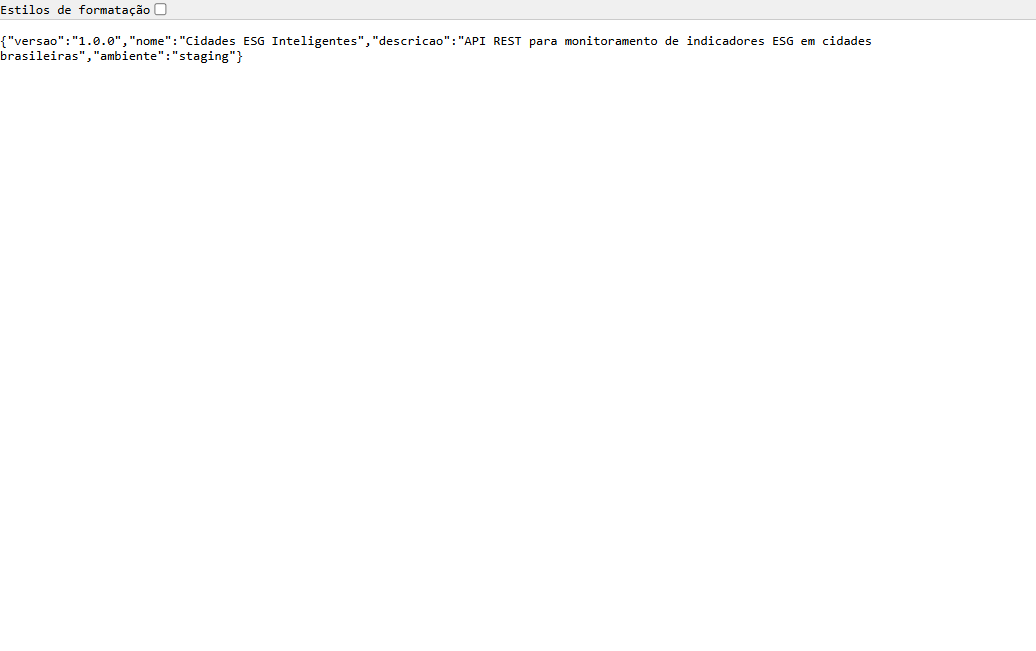
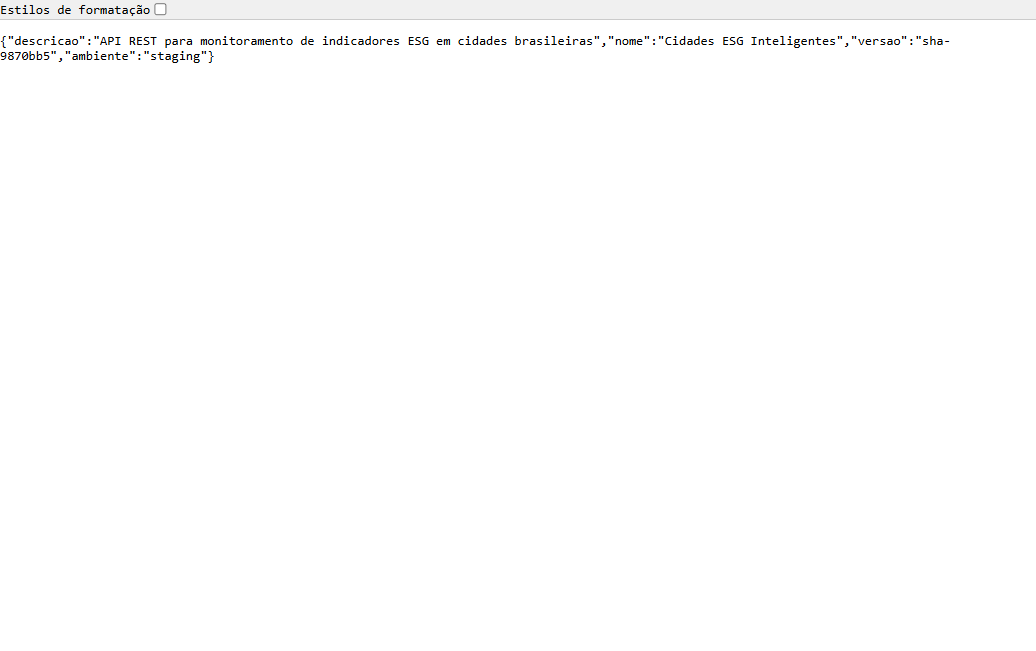
docs: README e documentacao tecnica atualizados com URLs Azure e pipeline verde

Changed region(s): [[0.4015, 0.0307, 0.8649, 0.0922], [0.0, 0.0307, 0.3707, 0.0922]]

diff --git a/DOCUMENTACAO_TECNICA.html b/DOCUMENTACAO_TECNICA.html
@@ -129,8 +129,16 @@
 O <strong>Cidades ESG Inteligentes</strong> é uma API REST desenvolvida em <strong>Java 21 + Spring Boot 3.2.5</strong>
 para monitoramento de indicadores ESG (Environmental, Social & Governance) em cidades brasileiras.
 Esta entrega foca em integrar práticas completas de DevOps: containerização com Docker multi-stage,
-orquestração via Docker Compose com overrides por ambiente (dev/staging/prod) e pipeline CI/CD funcional no GitHub Actions.
+orquestração via Docker Compose com overrides por ambiente (dev/staging/prod), pipeline CI/CD funcional no GitHub Actions
+e <strong>deploy real em VM Azure</strong> nos ambientes de staging e produção.
 </p>
+
+<div class="success">
+<strong>Infraestrutura pública:</strong><br>
+• Repositório: <code class="inline">github.com/BrunoTizer/cidades-esg-inteligentes</code><br>
+• Staging: <code class="inline">http://51.120.75.55:8081/</code><br>
+• Produção: <code class="inline">http://51.120.75.55:8082/</code>
+</div>
 
 <h3>Arquitetura de alto nível</h3>
 <div class="ascii-diagram">
@@ -166,11 +174,26 @@ define cinco jobs encadeados, executados em agentes <code class="inline">ubuntu-
 <h2>2.1 Etapas do pipeline</h2>
 <table>
   <tr><th>#</th><th>Job</th><th>Responsabilidade</th><th>Dispara em</th></tr>
-  <tr><td>1</td><td><strong>build-and-test</strong></td><td><code class="inline">mvn verify -B</code> — compila e executa os 11 testes JUnit. Publica relatório Surefire e cobertura no Codecov.</td><td>Todos os pushes e PRs</td></tr>
-  <tr><td>2</td><td><strong>docker-build</strong></td><td>Build multi-stage da imagem, push para <code class="inline">ghcr.io</code> com tags <code class="inline">sha</code>, branch e <code class="inline">latest</code>. Usa cache de layers GHA.</td><td>Depois do job 1</td></tr>
-  <tr><td>3</td><td><strong>deploy-staging</strong></td><td>SSH no servidor de staging, <code class="inline">docker compose pull</code> + <code class="inline">up -d</code> com override <code class="inline">docker-compose.staging.yml</code>.</td><td>Branches <code class="inline">develop</code> ou <code class="inline">main</code></td></tr>
-  <tr><td>4</td><td><strong>integration-tests-staging</strong></td><td>Smoke tests via <code class="inline">curl</code> em todos os endpoints da URL de staging.</td><td>Depois do job 3</td></tr>
-  <tr><td>5</td><td><strong>deploy-production</strong></td><td>Backup do Postgres com <code class="inline">pg_dump</code>, deploy via SSH com override de produção, cria Release no GitHub.</td><td>Somente branch <code class="inline">main</code></td></tr>
+  <tr><td>1</td><td><strong>build-and-test</strong></td><td><code class="inline">mvn verify -B</code> — compila e executa os 11 testes JUnit com MockMvc. Publica relatório Surefire.</td><td>Todos os pushes e PRs</td></tr>
+  <tr><td>2</td><td><strong>docker-build</strong></td><td>Build multi-stage da imagem, push para <code class="inline">ghcr.io/brunotizer/cidades-esg-api</code> com tags <code class="inline">sha-XXXX</code>, branch e <code class="inline">latest</code>. Cache de layers GHA.</td><td>Depois do job 1</td></tr>
+  <tr><td>3</td><td><strong>deploy-staging</strong></td><td>SSH na VM Azure, login no GHCR com <code class="inline">GITHUB_TOKEN</code>, puxa imagem e executa <code class="inline">docker compose -p esg-staging up -d</code>.</td><td>Branches <code class="inline">develop</code> ou <code class="inline">main</code></td></tr>
+  <tr><td>4</td><td><strong>integration-tests-staging</strong></td><td>Smoke tests públicos via <code class="inline">curl http://51.120.75.55:8081/...</code> em todos os endpoints.</td><td>Depois do job 3</td></tr>
+  <tr><td>5</td><td><strong>deploy-production</strong></td><td>Backup do Postgres com <code class="inline">pg_dump</code>, SSH na VM, deploy em <code class="inline">/opt/cidades-esg-prod/</code> com <code class="inline">docker compose -p esg-prod</code>, cria Release no GitHub.</td><td>Somente branch <code class="inline">main</code></td></tr>
+</table>
+
+<h2>2.2 Infraestrutura Azure</h2>
+<p>A infra de deploy foi provisionada via <strong>Azure CLI</strong> no plano <strong>Azure for Students (FIAP)</strong>:</p>
+<table>
+  <tr><th>Recurso</th><th>Valor</th></tr>
+  <tr><td>Resource Group</td><td><code class="inline">esg-rg-no</code></td></tr>
+  <tr><td>Região</td><td>Norway East (restrição de policy FIAP)</td></tr>
+  <tr><td>VM</td><td>Standard_B2s — 2 vCPU, 4 GB RAM</td></tr>
+  <tr><td>OS</td><td>Ubuntu Server 22.04 LTS</td></tr>
+  <tr><td>IP público estático</td><td><code class="inline">51.120.75.55</code></td></tr>
+  <tr><td>Acesso</td><td>SSH chave RSA 4096 bits, usuário <code class="inline">azureuser</code></td></tr>
+  <tr><td>Portas abertas no NSG</td><td>22 (SSH), 8081 (staging), 8082 (produção)</td></tr>
+  <tr><td>Staging</td><td><code class="inline">/opt/cidades-esg-staging/</code> — project <code class="inline">esg-staging</code></td></tr>
+  <tr><td>Produção</td><td><code class="inline">/opt/cidades-esg-prod/</code> — project <code class="inline">esg-prod</code></td></tr>
 </table>
 
 <h2>2.2 Lógica do pipeline</h2>
@@ -329,21 +352,29 @@ docker compose down</pre>
   <div class="caption">Acesso via Nginx (<code class="inline">http://localhost:80</code>) — proxy reverso operando.</div>
 </div>
 
-<h2>4.3 Ambientes Staging e Produção</h2>
-
+<h2>4.3 Pipeline CI/CD completo (GitHub Actions)</h2>
 <div class="screenshot">
-  <img src="public/print-09-staging.png" alt="Staging">
+  <img src="public/print-11-github-actions.png" alt="Pipeline verde">
   <div class="caption">
-    <strong>Staging:</strong> <code class="inline">docker compose -f docker-compose.yml -f docker-compose.staging.yml up -d</code><br>
-    API retornando <code class="inline">"ambiente":"staging"</code>.
+    <strong>Execução #6:</strong> todos os 5 jobs verdes em 2m 14s — build, testes, Docker push, deploy staging, smoke tests, deploy produção.
   </div>
 </div>
 
+<h2>4.4 Ambiente de Staging — VM Azure pública</h2>
 <div class="screenshot">
-  <img src="public/print-10-production.png" alt="Production">
+  <img src="public/print-09-staging.png" alt="Staging Azure">
   <div class="caption">
-    <strong>Produção:</strong> <code class="inline">docker compose -f docker-compose.yml -f docker-compose.prod.yml up -d</code><br>
-    API retornando <code class="inline">"ambiente":"production"</code>.
+    <strong>Staging:</strong> <code class="inline">http://51.120.75.55:8081/</code> — resposta da API:
+    <code class="inline">{"ambiente":"staging", "versao":"sha-9870bb5"}</code>. Deploy automático via SSH pelo pipeline.
+  </div>
+</div>
+
+<h2>4.5 Ambiente de Produção — VM Azure pública</h2>
+<div class="screenshot">
+  <img src="public/print-10-production.png" alt="Produção Azure">
+  <div class="caption">
+    <strong>Produção:</strong> <code class="inline">http://51.120.75.55:8082/</code> — resposta da API:
+    <code class="inline">{"ambiente":"production", "versao":"sha-9870bb5"}</code>. Promovido após smoke tests em staging.
   </div>
 </div>
 
@@ -369,6 +400,18 @@ docker compose down</pre>
 <h2>Desafio 5 — Encoding UTF-8 em dados com acentos</h2>
 <p><strong>Problema:</strong> Cidades como "São Paulo", "Florianópolis" e a categoria "Governança" apareciam com caracteres estranhos em algumas ferramentas de formatação JSON.</p>
 <p><strong>Solução:</strong> Spring Boot entrega UTF-8 por padrão (verificado via <code class="inline">curl</code> direto). Usamos <code class="inline">application.properties</code> padrão e mantivemos os arquivos <code class="inline">.java</code> com encoding UTF-8.</p>
+
+<h2>Desafio 6 — Restrições da subscription Azure for Students</h2>
+<p><strong>Problema:</strong> Ao tentar criar a VM, uma policy do tenant FIAP restringiu a subscription a apenas 5 regiões (<em>norwayeast, germanywestcentral, switzerlandnorth, chilecentral, brazilsouth</em>), e Brazil South apresentou capacidade esgotada para a série B de VMs — que é a mais econômica para o free tier.</p>
+<p><strong>Solução:</strong> Usamos <code class="inline">az vm list-skus</code> para mapear a capacidade real em cada região permitida e migramos para <strong>Norway East</strong>, onde a série B estava disponível. Provisionamos uma <code class="inline">Standard_B2s</code> (2 vCPU, 4 GB RAM), com IP estático e NSG liberando somente as portas necessárias.</p>
+
+<h2>Desafio 7 — Conflito de portas entre stacks na mesma VM</h2>
+<p><strong>Problema:</strong> Rodar os dois ambientes (staging e produção) na mesma VM gerou conflito: a API expunha <code class="inline">8080</code> por padrão no compose base, e a tentativa de subir o segundo stack falhava com <em>"port is already allocated"</em>. Além disso, <code class="inline">container_name</code> fixos impediam múltiplos projetos.</p>
+<p><strong>Solução:</strong> Removemos <code class="inline">container_name</code> do compose base (agora os nomes vêm do projeto — <code class="inline">esg-staging-*</code> e <code class="inline">esg-prod-*</code>) e refatoramos a estratégia de portas: o base usa apenas <code class="inline">expose</code> (porta interna na rede do compose), e cada ambiente define suas portas via override — Nginx em <strong>8081</strong> (staging) e <strong>8082</strong> (produção). Um <code class="inline">docker-compose.override.yml</code> mantém a experiência de dev local expondo todas as portas.</p>
+
+<h2>Desafio 8 — Nginx não recriado em redeploys</h2>
+<p><strong>Problema:</strong> Quando apenas o <code class="inline">nginx.conf</code> mudava, <code class="inline">docker compose up -d</code> não recriava o container (imagem era a mesma), deixando o ambiente com a configuração antiga.</p>
+<p><strong>Solução:</strong> Adicionamos <code class="inline">--force-recreate</code> no comando do pipeline, garantindo que toda nova execução refletisse as mudanças de configuração.</p>
 
 <!-- ====== 6. CHECKLIST ====== -->
 <h1>6. Checklist de Entrega</h1>

diff --git a/README.md b/README.md
@@ -1,6 +1,10 @@
 # Projeto - Cidades ESG Inteligentes
 
-> API REST para monitoramento de indicadores ESG (Environmental, Social & Governance) em cidades brasileiras — construída com Java Spring Boot, containerizada com Docker e com pipeline CI/CD completo via GitHub Actions.
+> API REST para monitoramento de indicadores ESG (Environmental, Social & Governance) em cidades brasileiras — construída com Java Spring Boot, containerizada com Docker e com pipeline CI/CD completo via GitHub Actions com deploy automático em VM Azure.
+
+**Repositório público:** https://github.com/BrunoTizer/cidades-esg-inteligentes
+**Staging:** http://51.120.75.55:8081/
+**Produção:** http://51.120.75.55:8082/
 
 ![Java](https://img.shields.io/badge/Java-21-orange)
 ![Spring Boot](https://img.shields.io/badge/Spring%20Boot-3.2.5-brightgreen)
@@ -116,6 +120,16 @@ mvn verify
 ### Ferramenta: GitHub Actions
 
 Arquivo: `.github/workflows/ci-cd.yml` — acionado em `push` e `pull_request` nas branches `main`, `develop` e `feature/**`.
+
+### Infraestrutura de Deploy — VM Azure
+
+O deploy automatizado está configurado para uma **VM Ubuntu 22.04 Standard_B2s** (2 vCPU, 4GB RAM) provisionada na região **Norway East** via **Azure for Students (plano FIAP)**. Na VM:
+
+- Pasta `/opt/cidades-esg-staging/` roda o stack de staging via `docker compose -p esg-staging` — Nginx na porta **8081**
+- Pasta `/opt/cidades-esg-prod/` roda o stack de produção via `docker compose -p esg-prod` — Nginx na porta **8082**
+- Network Security Group libera portas 22 (SSH), 8081 (staging) e 8082 (produção)
+
+O pipeline faz SSH na VM com uma chave SSH dedicada (secrets `STAGING_SSH_KEY` / `PROD_SSH_KEY`), puxa a imagem mais recente do ghcr.io e executa `docker compose up -d --force-recreate`.
 
 ### Fluxo do pipeline
 
@@ -267,15 +281,20 @@ ENTRYPOINT ["java", "-jar", "app.jar"]
 ### 8. Containers saudáveis + 11 testes passando + arquitetura
 ![docker compose ps + testes](public/print-08-docker-testes.png)
 
-### 9. Ambiente de Staging — `SPRING_PROFILES_ACTIVE=staging`
-> Execução com `docker compose -f docker-compose.yml -f docker-compose.staging.yml up -d` — `ambiente: staging` retornado pela API.
+### 9. Ambiente de Staging rodando em VM Azure
+> **URL pública:** http://51.120.75.55:8081/ — API respondendo `"ambiente":"staging"` após deploy automático do pipeline.
 
-![Staging](public/print-09-staging.png)
+![Staging Azure](public/print-09-staging.png)
 
-### 10. Ambiente de Produção — `SPRING_PROFILES_ACTIVE=production`
-> Execução com `docker compose -f docker-compose.yml -f docker-compose.prod.yml up -d` — `ambiente: production` retornado pela API.
+### 10. Ambiente de Produção rodando em VM Azure
+> **URL pública:** http://51.120.75.55:8082/ — API respondendo `"ambiente":"production"` após promoção via pipeline.
 
-![Production](public/print-10-production.png)
+![Produção Azure](public/print-10-production.png)
+
+### 11. Pipeline GitHub Actions — todos os 5 jobs verdes
+> Execução #6 concluída em 2m 14s: build → testes (11) → Docker push → deploy staging → smoke tests → deploy produção.
+
+![GitHub Actions](public/print-11-github-actions.png)
 
 ### Resultado da suite de testes (Maven Surefire)
 
